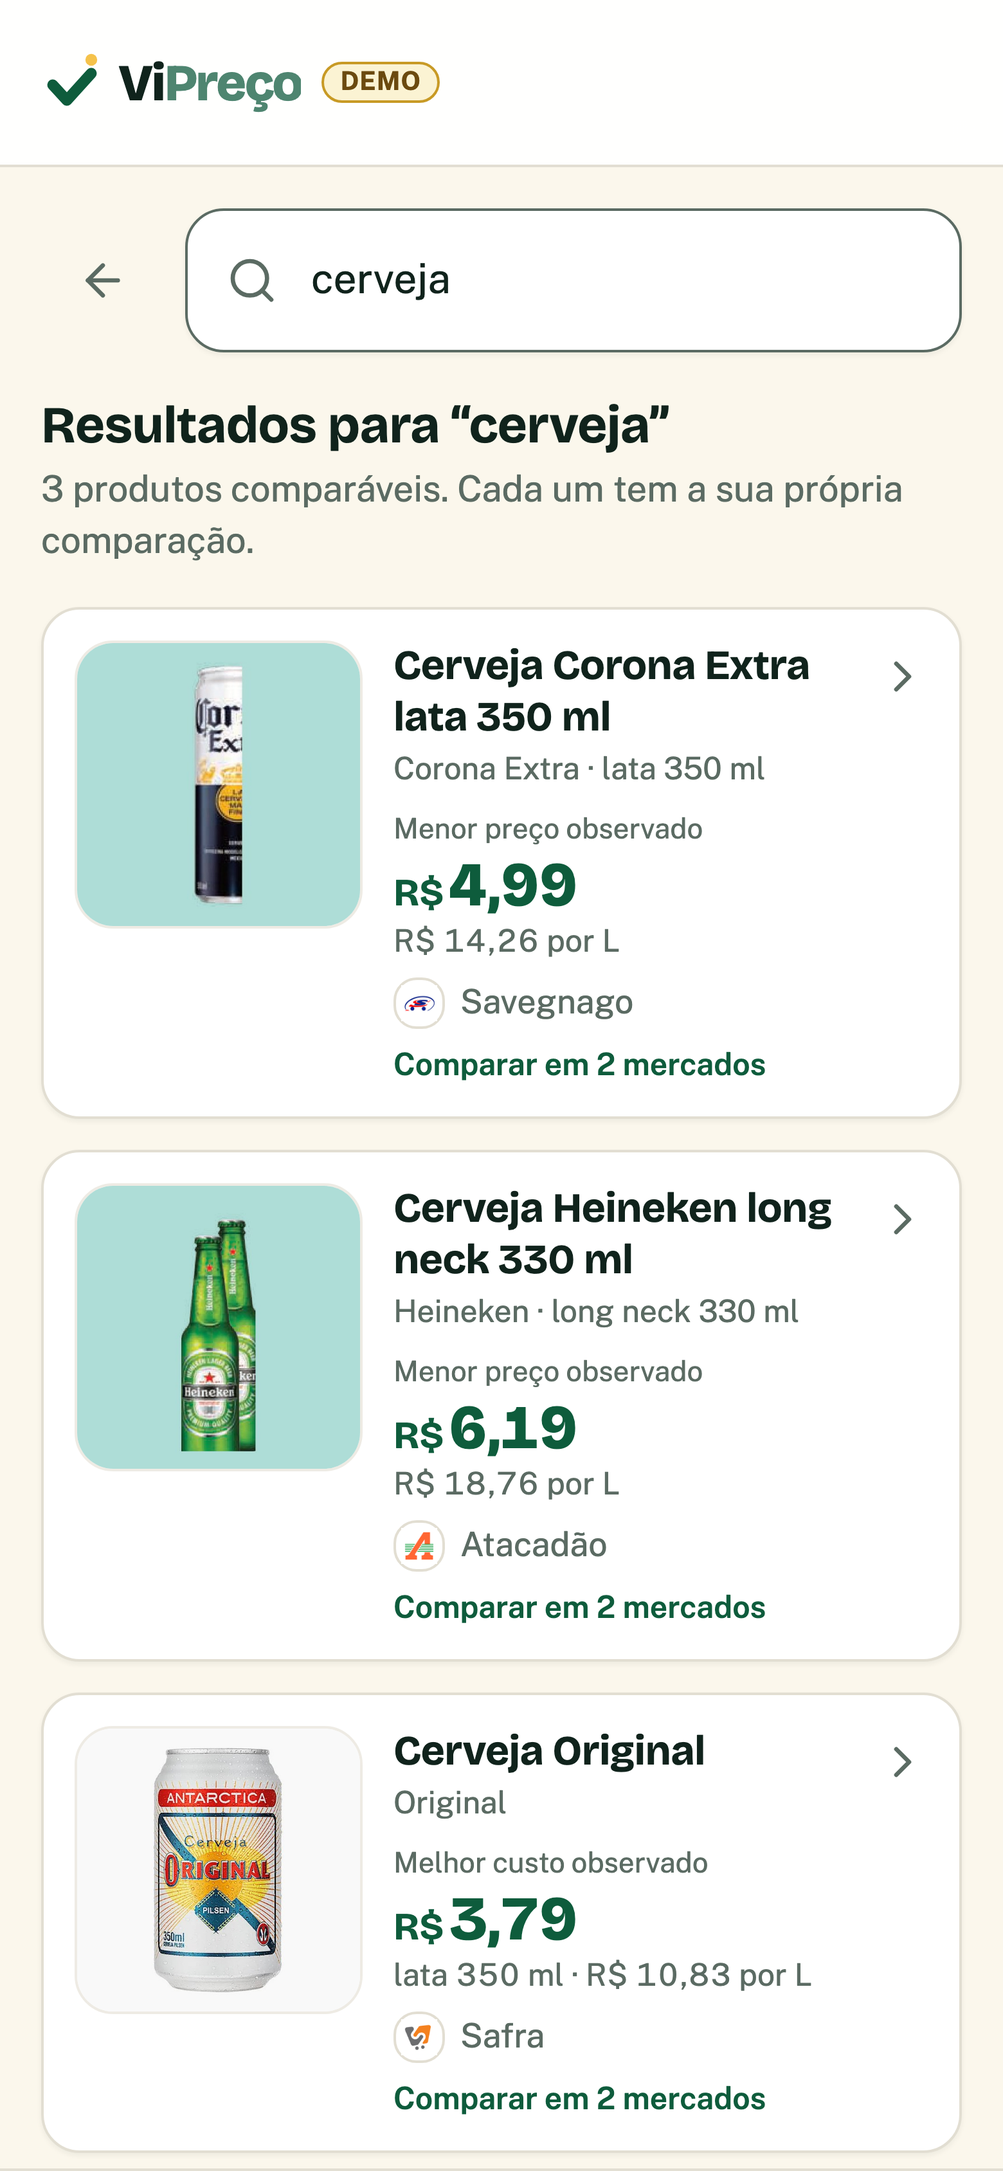
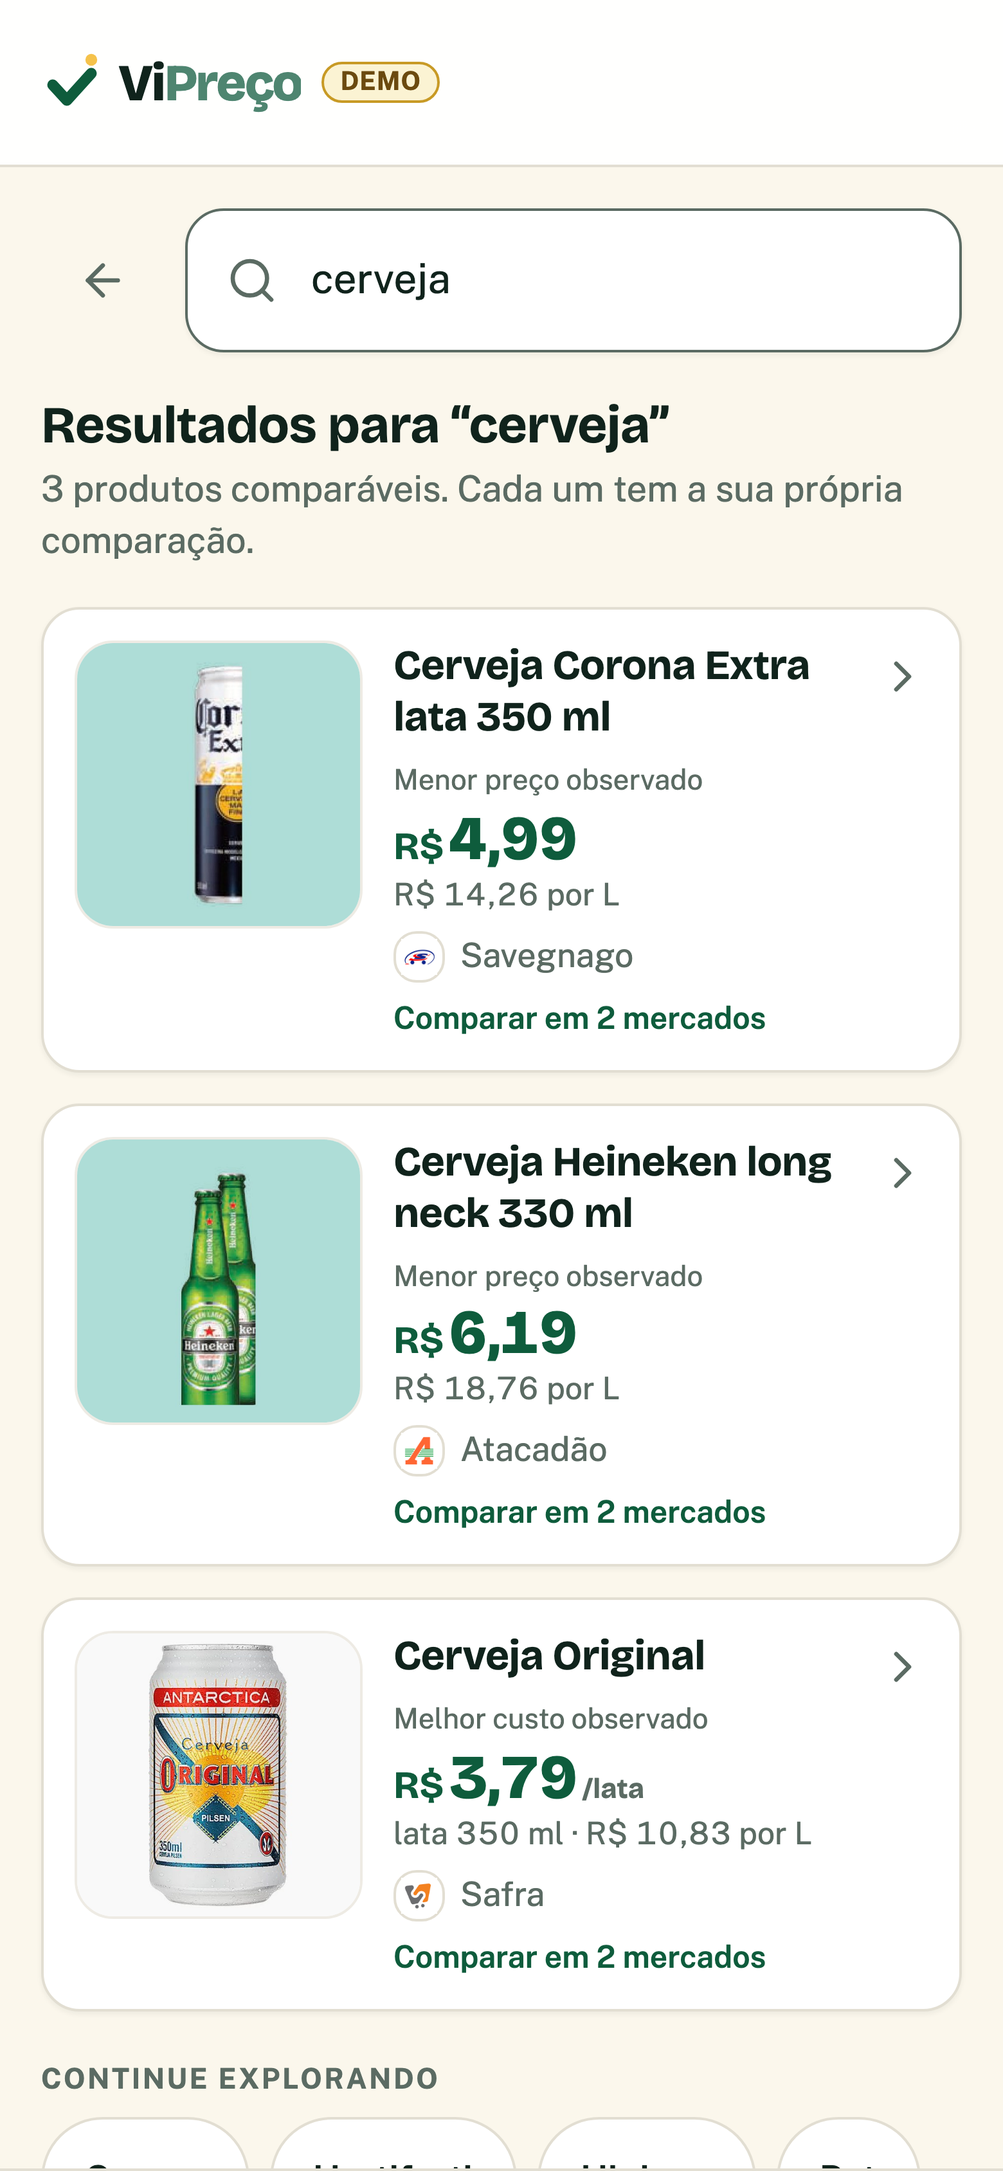
feat(demo): Demo V4.2 — Last-Mile Consumer Polish
Rodada cirúrgica sobre a V4.1, zero mudança de dado (24 grupos, 49
ofertas, 5 mercados):

- Original: 'R$ 3,79/lata' em toda superfície via campo declarado
  unidade_de_venda (card-v2), condição curta 'Venda somente no pack
  de 12.', ficha sem o prefixo 'Condição desta oferta.'
- Zero repetição de identidade: formatProductDetails — a linha de
  apoio só diz o que o título não disse (busca, comparação, ficha e
  Card v2); informação nunca é escondida
- Metadata sem quebra feia: data e validade são segmentos nowrap,
  quebra só no separador
- Presença óptica: 3 assets reais recompostos (respiro 8%->4%);
  Elseve 400 re-recortado do PDF do encarte em alta resolução
  (garrafa completa em largura/fundo; tampa segue sob o preço da
  origem)
- NEEDS FOUNDER ASSET declarado: Corona Extra lata (Savegnago:
  atrás da Cero; Atacadão: selo -18 sobre a lata) e tampa do
  Elseve 400 — nada foi completado com IA

1697 testes (5 novos), lint/build zero, QA 56 combinações sem
overflow/colisão, nav fixa com 39px de folga do último conteúdo.

diff --git a/scripts/visual/comparaveis-v2.ts b/scripts/visual/comparaveis-v2.ts
@@ -119,6 +119,14 @@ const CSS = `
   .tela p { margin:0; font-size:12.5px; font-weight:700; text-align:center; }
 `;
 
+/** O que a V4.2 mudou — Last-Mile Consumer Polish (10/08/2026). */
+const NOTAS_V42 = [
+  "<b>Preço da Original inequívoco (V4.2 §4).</b> O número grande diz 'R$ 3,79/lata' em toda superfície, a condição encurtou para 'Venda somente no pack de 12.' e o R$/L segue como normalização secundária. Mesma verdade do encarte, redistribuída — nenhum dado mudou.",
+  "<b>Zero repetição de identidade (V4.2 §5).</b> Regra visual genérica: o que o título já disse não se repete na linha de apoio ('Cerveja Original lata 350 ml' + 'lata 350 ml' era dado duplicado). Informação que o título não carrega continua aparecendo, sempre.",
+  "<b>Metadata sem quebra feia (V4.2 §6).</b> Cada fato de data é um segmento indivisível — a quebra acontece entre '09/08' e 'valeu até 09/08', nunca no meio da frase.",
+  "<b>Presença óptica dos assets (V4.2 §1).</b> Os 3 assets reais recompostos com respiro menor (8%→4% por lado) e o Elseve 400 re-recortado do PDF original em alta resolução: garrafa completa em largura e fundo ('400 ml' legível) — a tampa fica sob o preço impresso no encarte de origem, e só material novo resolve. Corona segue como está: nenhuma fonte legítima contém a lata Extra inteira e limpa (Savegnago: atrás da Cero; Atacadão: selo -18 sobre a lata). NEEDS FOUNDER ASSET: Corona Extra lata; Elseve 400 (tampa).",
+];
+
 /** O que a V4.1 mudou — App-First Polish + Real Product Assets (10/08/2026). */
 const NOTAS_V41 = [
   "<b>28/28 SKUs com imagem legítima (V4.1 §A).</b> Os três últimos placeholders saíram: Elseve Collagen Lifter 200 ml, Sanol Dog 7 unidades e a lata avulsa de Original receberam a FOTO REAL da embalagem fornecida pelo Founder — nada gerado, nada aproximado. Recorte pelo produto, fundo próprio, respiro uniforme, mesmo frame dos demais.",
@@ -290,10 +298,10 @@ async function principal(): Promise<void> {
     // 3. a prancha final — as seis telas e as notas de honestidade (§20, §23).
     const prancha = `<!doctype html><meta charset="utf-8"><style>${CSS}</style>
       <div class="prancha">
-        <h1>VIPREÇO — DEMO V4.1 · APP-FIRST POLISH + REAL PRODUCT ASSETS</h1>
-        <p class="sub">Demo V4.1 (10/08/2026) · os MESMOS 24 grupos, 49 ofertas e 5 mercados
-          — nada de dado mudou; a V4.1 fecha a cobertura de imagem: 28/28 SKUs com asset
-          legítimo, zero placeholders · 390 px, primeira dobra de cada tela.</p>
+        <h1>VIPREÇO — DEMO V4.2 · LAST-MILE CONSUMER POLISH</h1>
+        <p class="sub">Demo V4.2 (10/08/2026) · os MESMOS 24 grupos, 49 ofertas e 5 mercados
+          — nada de dado mudou; 28/28 SKUs com asset legítimo, zero placeholders, zero
+          repetição de identidade, preço da Original por lata · 390 px, primeira dobra.</p>
         <div class="fila">
           ${TELAS.map(
             (t) => `<div class="tela">
@@ -303,7 +311,7 @@ async function principal(): Promise<void> {
           ).join("")}
         </div>
         <div class="div"><h2>Como esta demo diz a verdade</h2><ul>
-          ${[...NOTAS_V41, ...NOTAS_V4, ...NOTAS_V3, ...NOTAS_POLISH, ...NOTAS].map((n) => `<li>${n}</li>`).join("")}
+          ${[...NOTAS_V42, ...NOTAS_V41, ...NOTAS_V4, ...NOTAS_V3, ...NOTAS_POLISH, ...NOTAS].map((n) => `<li>${n}</li>`).join("")}
         </ul></div>
       </div>`;
     await folha(s, prancha, join(DESTINO, "comparable-products-demo-board.png"), 1700);

diff --git a/src/components/card-v2/identity.tsx b/src/components/card-v2/identity.tsx
@@ -30,29 +30,22 @@ export function ProductIdentity({
   tituloId: string;
   destaque: boolean;
 }) {
-  const detalhes = [identidade.marca, identidade.variante].filter(
-    (v): v is string => typeof v === "string" && v.length > 0,
-  );
-
   /**
-   * O TÍTULO DO DESTAQUE É A IDENTIDADE INTEIRA — e é uma correção de coerência, não de gosto.
-   *
-   * Até aqui ele mostrava só `nome`. Numa Home cujo primeiro card diz **"Café"** e cuja busca,
-   * comparação e detalhe dizem **"Café Serra Alta Tradicional 500 g"**, a mesma coisa tem dois
-   * nomes em quatro telas — que é exatamente o que o §8 do mandato proíbe.
-   *
-   * A referência faz igual: o título é "Café Pilão Tradicional" e a linha abaixo repete
-   * "Pilão • Tradicional • 500 g". A repetição não é desperdício — o título identifica o
-   * produto de longe, e a linha abaixo separa os três campos para quem for comparar.
-   *
-   * Na variante de lista o título continua sendo só o nome: ali a embalagem tem 80 px e o card
-   * inteiro tem três linhas, e a identidade completa transformaria cada item num parágrafo.
+   * O TÍTULO DO DESTAQUE É A IDENTIDADE INTEIRA (V4 §8) — e, desde a V4.2 §5, o que o
+   * título já disse NÃO se repete na linha de apoio: no destaque as linhas de apoio
+   * somem; na lista o título é só o nome, e marca/variante/gramatura continuam. Regra
+   * visual e genérica — os dados não mudam, só a decisão do que exibir.
    */
   const titulo = destaque
     ? [identidade.nome, identidade.marca, identidade.variante, identidade.quantidade]
         .filter((v): v is string => typeof v === "string" && v.length > 0)
         .join(" ")
     : identidade.nome;
+  const jaNoTitulo = (v: string) => titulo.toLowerCase().includes(v.toLowerCase());
+
+  const detalhes = [identidade.marca, identidade.variante].filter(
+    (v): v is string => typeof v === "string" && v.length > 0 && !jaNoTitulo(v),
+  );
 
   return (
     <div className="min-w-0">
@@ -71,7 +64,7 @@ export function ProductIdentity({
         <p className="text-muted-foreground mt-0.5 text-sm leading-snug">{detalhes.join(" · ")}</p>
       ) : null}
 
-      {identidade.quantidade !== null ? (
+      {identidade.quantidade !== null && !jaNoTitulo(identidade.quantidade) ? (
         // Sem `truncate` e sem `line-clamp`, de propósito: a gramatura é o que separa dois
         // produtos que de resto são o mesmo. Cortá-la para caber é apagar a comparação.
         //

diff --git a/src/lib/card-v2.ts b/src/lib/card-v2.ts
@@ -153,6 +153,14 @@ export interface OfertaCardV2 extends Opportunity {
    */
   clube?: { preco: number; condicao: string };
   /**
+   * A unidade de VENDA que o mercado anunciou junto do número, quando o preço não é o da
+   * embalagem comprável isolada — "lata" no "R$ 3,79 por lata, venda só no pack de 12" do
+   * Safra (V4.2 §4). Vira o sufixo colado no número grande ("R$ 3,79/lata"): sem ele, o
+   * preço afirmaria um desembolso avulso que o encarte não oferece. Campo declarado,
+   * nunca inferido do texto da condição — inferência em apresentação erra em silêncio.
+   */
+  unidade_de_venda?: string;
+  /**
    * Como a fonte é dita ao usuário quando o rótulo genérico do enum não descreve a coleta:
    * "Foto em loja", "Painel da loja", "Encarte da loja" (§15 — nome técnico de arquivo
    * nunca vira copy). Ausente, vale `sourceLabel(source_type)`. O `source_type` continua
@@ -575,13 +583,19 @@ function resolverPrecos(
 ): { preco: PrecoExibido; simulacao: string | null; unitario: UnitarioExibido | null } {
   if (oferta.price_unit === undefined) {
     const { currency, amount } = formatPriceParts(oferta.price);
+    const unidadeDeVenda = oferta.unidade_de_venda;
     return {
       preco: {
         valor: oferta.price,
         simbolo: currency,
         numero: amount,
-        quantidade: null,
-        falado: spokenPrice(oferta.price),
+        // V4.2 §4 — a unidade de venda anunciada cola no número ("R$ 3,79/lata"),
+        // exatamente como o "/kg" do granel: o número nunca afirma mais que a placa.
+        quantidade: unidadeDeVenda === undefined ? null : `/${unidadeDeVenda}`,
+        falado:
+          unidadeDeVenda === undefined
+            ? spokenPrice(oferta.price)
+            : `${spokenPrice(oferta.price)} por ${unidadeDeVenda}`,
       },
       simulacao: null,
       unitario: calcularUnitario(oferta),

diff --git a/src/routes/produto_.$productId.oferta.$priceId.tsx b/src/routes/produto_.$productId.oferta.$priceId.tsx
@@ -14,7 +14,7 @@ import { ofertaDemo } from "@/services/demo-source";
 import { montarVisaoDoCard } from "@/lib/card-v2";
 import { PESO_PADRAO, rotuloDoPeso, type PesoSelecionado } from "@/lib/peso-variavel";
 import { absoluteAssetUrl } from "@/lib/og";
-import { formatDate, formatPrice, formatProductName } from "@/lib/format";
+import { formatDate, formatPrice, formatProductDetails, formatProductName } from "@/lib/format";
 
 /**
  * =============================================================================
@@ -97,7 +97,8 @@ function OfferPage() {
     ...(granel ? { gramas } : {}),
     snapshotHistorico: isDemoMode(),
   });
-  const detalhes = [product.variant, product.size_text].filter(Boolean).join(" · ");
+  // V4.2 §5 — a linha de apoio só diz o que o título ainda não disse.
+  const detalhes = formatProductDetails(product);
   const whatsapp = mensagemDeOferta(oferta.id, product.name);
   const onde = localidade(market.neighborhood);
 
@@ -222,13 +223,12 @@ function OfferPage() {
             </div>
           </div>
 
-          {/* 4. CONDIÇÃO */}
+          {/* 4. CONDIÇÃO — só a frase, curta e inequívoca (V4.2 §4). O prefixo "Condição
+              desta oferta." dobrava a hierarquia sem acrescentar nada: a caixa de atenção
+              já diz que isto é uma condição. */}
           {oferta.special_condition ? (
-            <p className="bg-caution/25 text-caution-foreground mt-3 flex items-start gap-2 rounded-lg px-3 py-2.5 text-sm">
-              <span>
-                <strong className="font-semibold">Condição desta oferta.</strong>{" "}
-                {oferta.special_condition}
-              </span>
+            <p className="bg-caution/25 text-caution-foreground mt-3 rounded-lg px-3 py-2.5 text-sm font-semibold">
+              {oferta.special_condition}
             </p>
           ) : null}
         </section>

diff --git a/src/lib/demo-catalog.ts b/src/lib/demo-catalog.ts
@@ -786,8 +786,10 @@ interface SementeDeOferta {
   readonly clube?: PrecoDeClube;
   /** "kg" quando o preço observado é por quilo (granel). */
   readonly porKg?: true;
-  /** Condição declarada pelo mercado junto do preço — ex.: "venda só no pack de 12". */
+  /** Condição declarada pelo mercado junto do preço — ex.: "Venda somente no pack de 12." */
   readonly condicaoEspecial?: string;
+  /** Unidade de venda anunciada junto do número ("lata") — vira o sufixo "R$ 3,79/lata". */
+  readonly unidadeDeVenda?: string;
 }
 
 export interface GrupoDemo {
@@ -1197,7 +1199,10 @@ const GRUPOS: readonly GrupoDemo[] = [
         mercado: SAFRA,
         price: 3.79,
         fonte: FONTE.safraTabloide,
-        condicaoEspecial: "preço por lata, venda só no pack de 12",
+        // V4.2 §4 — "por lata" saiu da frase e virou o sufixo do preço ("R$ 3,79/lata");
+        // a condição fica curta e inequívoca. É a MESMA verdade do encarte, redistribuída.
+        condicaoEspecial: "Venda somente no pack de 12.",
+        unidadeDeVenda: "lata",
       },
       {
         id: "demo-v3-original-savegnago",
@@ -1333,6 +1338,7 @@ function construirOferta(semente: SementeDeOferta): OfertaCardV2 {
     // encarte original ("Conferência 2 fontes") — é o que `confirmed` significa aqui.
     quantity_provenance: "confirmed",
     ...(semente.clube === undefined ? {} : { clube: semente.clube }),
+    ...(semente.unidadeDeVenda === undefined ? {} : { unidade_de_venda: semente.unidadeDeVenda }),
   };
 }
 

diff --git a/src/lib/format.test.ts b/src/lib/format.test.ts
@@ -3,6 +3,7 @@ import {
   formatDate,
   formatPrice,
   formatPriceParts,
+  formatProductDetails,
   formatProductName,
   formatRelativeDay,
   spokenPrice,
@@ -44,6 +45,24 @@ describe("formatPrice e formatProductName", () => {
     expect(
       formatProductName({ name: "Arroz", brand: "Camil", variant: "Tipo 1", size_text: "5 kg" }),
     ).toBe("Arroz Camil Tipo 1 5 kg");
+  });
+});
+
+describe("formatProductDetails — a linha de apoio não repete o título (V4.2 §5)", () => {
+  const produto = { name: "Cerveja", brand: "Original", variant: null, size_text: "lata 350 ml" };
+
+  it("tudo que o título completo já disse some da linha de apoio", () => {
+    // Título "Cerveja Original lata 350 ml" seguido de "lata 350 ml" era dado duplicado.
+    expect(formatProductDetails(produto)).toBe("");
+  });
+
+  it("o que o título NÃO disse continua aparecendo — informação nunca é escondida", () => {
+    expect(formatProductDetails(produto, "Cerveja Original")).toBe("lata 350 ml");
+    expect(formatProductDetails(produto, "Cerveja")).toBe("Original · lata 350 ml");
+  });
+
+  it("a comparação é sem caixa: 'Lata' no título cobre 'lata' no tamanho", () => {
+    expect(formatProductDetails(produto, "Cerveja Original LATA 350 ML")).toBe("");
   });
 });
 

diff --git a/src/components/OfferRankRow.tsx b/src/components/OfferRankRow.tsx
@@ -210,12 +210,15 @@ export function OfferRankRow({
             e nada saiu do produto: só desta densidade de linha. */}
         <div className="text-muted-foreground mt-2 flex flex-wrap items-center gap-x-2 gap-y-1 text-xs">
           <SourceBadge source={entry.source_type} label={visao.procedencia.origem} />
-          <span className="tabular-nums">
-            {formatDiaMes(entry.observed_at)}
-            {entry.valid_until !== null
-              ? ` · ${visao.procedencia.validadePassada ? "valeu até" : "válido até"} ${formatDiaMes(entry.valid_until)}`
-              : ""}
-          </span>
+          {/* V4.2 §6 — cada fato de data é um segmento indivisível: quando falta largura,
+              a quebra acontece ENTRE "09/08" e "valeu até 09/08", nunca no meio da frase
+              ("09/08 · valeu até / 09/08" parecia acidente de layout). */}
+          <span className="tabular-nums whitespace-nowrap">{formatDiaMes(entry.observed_at)}</span>
+          {entry.valid_until !== null ? (
+            <span className="tabular-nums whitespace-nowrap">
+              {`· ${visao.procedencia.validadePassada ? "valeu até" : "válido até"} ${formatDiaMes(entry.valid_until)}`}
+            </span>
+          ) : null}
         </div>
       </div>
 

diff --git a/src/routes/produto.$productId.tsx b/src/routes/produto.$productId.tsx
@@ -13,7 +13,7 @@ import { carregarComparacao, imagemDoProduto } from "@/services/demo-source";
 import { diferencaParaOSegundo } from "@/lib/diferenca-de-preco";
 import { PESO_PADRAO, rotuloDoPeso, type PesoSelecionado } from "@/lib/peso-variavel";
 import { absoluteAssetUrl } from "@/lib/og";
-import { formatPrice, formatProductName } from "@/lib/format";
+import { formatPrice, formatProductDetails, formatProductName } from "@/lib/format";
 import type { OfertaCardV2 } from "@/lib/card-v2";
 import type { UnitPriceBasis } from "@/lib/unit-price";
 
@@ -115,7 +115,8 @@ function ProductPage() {
   const { product, entries } = data;
   const granel = data.granel === true;
   const basePorUnidade = data.basePorUnidade;
-  const detalhes = [product.brand, product.variant, product.size_text].filter(Boolean).join(" · ");
+  // V4.2 §5 — a linha de apoio só diz o que o título ainda não disse.
+  const detalhes = formatProductDetails(product);
   const menor = entries[0] as OfertaCardV2 | undefined;
   // §12: a diferença para o 2º mercado, só onde ela é um fato — mesmo produto, mesma
   // quantidade. No peso variável ela acompanha o seletor, com a mesma conta de centavos.

diff --git a/src/lib/format.ts b/src/lib/format.ts
@@ -56,6 +56,26 @@ export function formatProductName(
 }
 
 /**
+ * A linha de apoio do título — SÓ com o que o título ainda não disse (V4.2 §5).
+ *
+ * "Cerveja Original lata 350 ml" seguido de "lata 350 ml" é a mesma informação duas vezes,
+ * e repetição é o que faz uma tela parecer dump de banco. A regra é VISUAL e genérica:
+ * marca, variante ou tamanho só entram aqui se não estiverem escritos no título — os DADOS
+ * não mudam, só a decisão do que exibir. Informação que o título não carrega continua
+ * aparecendo, sempre.
+ */
+export function formatProductDetails(
+  product: Pick<Product, "name" | "brand" | "variant" | "size_text">,
+  titulo: string = formatProductName(product),
+): string {
+  const t = titulo.toLowerCase();
+  return [product.brand, product.variant, product.size_text]
+    .filter((v): v is string => typeof v === "string" && v.length > 0)
+    .filter((v) => !t.includes(v.toLowerCase()))
+    .join(" · ");
+}
+
+/**
  * Data no fuso do piloto (Artemis/Piracicaba-SP), não no fuso do dispositivo.
  *
  * O fuso é fixado de propósito: as datas passaram a ser renderizadas no servidor (Worker, em

diff --git a/src/components/SearchResultCard.tsx b/src/components/SearchResultCard.tsx
@@ -4,7 +4,7 @@ import { MarketAvatar } from "@/components/MarketAvatar";
 import { ProductImage } from "@/components/card-v2/identity";
 import { isDemoMode } from "@/lib/app-mode";
 import { montarVisaoDoCard } from "@/lib/card-v2";
-import { formatDate, formatPrice, formatProductName } from "@/lib/format";
+import { formatDate, formatPrice, formatProductDetails, formatProductName } from "@/lib/format";
 import type { ResumoDeBusca } from "@/services/demo-source";
 
 /**
@@ -40,7 +40,8 @@ import type { ResumoDeBusca } from "@/services/demo-source";
  */
 export function SearchResultCard({ resumo, now }: { resumo: ResumoDeBusca; now: Date }) {
   const { product, imagem, melhor, basePorUnidade, mercados } = resumo;
-  const detalhes = [product.brand, product.variant, product.size_text].filter(Boolean).join(" · ");
+  // V4.2 §5 — a linha de apoio só diz o que o título ainda não disse.
+  const detalhes = formatProductDetails(product);
   const visao =
     melhor === null
       ? null

diff --git a/src/lib/card-v2.test.ts b/src/lib/card-v2.test.ts
@@ -419,6 +419,17 @@ describe("preço", () => {
     expect(v.preco.numero).toBe("26,49");
     expect(v.preco.falado).toBe("26 reais e 49 centavos");
   });
+
+  it("a unidade de venda declarada cola no número — 'R$ 3,79/lata' (V4.2 §4)", () => {
+    // Sem o sufixo, o número afirmaria um desembolso avulso que o encarte não oferece.
+    const v = visao({ price: 3.79, unidade_de_venda: "lata" });
+    expect(v.preco.quantidade).toBe("/lata");
+    expect(v.preco.falado).toBe("3 reais e 79 centavos por lata");
+  });
+
+  it("sem unidade de venda declarada, nada é inferido: sufixo ausente", () => {
+    expect(visao({ price: 3.79 }).preco.quantidade).toBeNull();
+  });
 });
 
 describe("condição de promoção", () => {

diff --git a/src/routes/b2c-north-star.contract.test.ts b/src/routes/b2c-north-star.contract.test.ts
@@ -537,7 +537,9 @@ describe("o detalhe não copia o que a referência não pode sustentar", () => {
       "<h1",
       "observado neste mercado",
       'aria-label="Mercado"',
-      "Condição desta oferta",
+      // V4.2 §4: o prefixo "Condição desta oferta." saiu da copy; o bloco continua no
+      // mesmo lugar da hierarquia e a âncora passa a ser o próprio campo renderizado.
+      "oferta.special_condition",
       "Receber achados no WhatsApp",
       "Confiança da informação",
     ];
